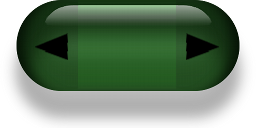
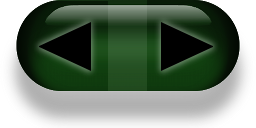
Added basic skinning to spinners
git-svn-id: svn+ssh://svn.code.sf.net/p/supertuxkart/code/main/branches/irrlicht@3375 178a84e3-b1eb-0310-8ba1-8eac791a3b58

diff --git a/src/gui/skin.cpp b/src/gui/skin.cpp
@@ -47,7 +47,8 @@ void Skin::draw2DRectangle (IGUIElement *element, const video::SColor &color, co
 
 void Skin::drawBoxFromStretchableTexture(const core::rect< s32 > &dest, ITexture* source,
                                          const int left_border, const int right_border,
-                                         const int top_border, const int bottom_border)
+                                         const int top_border, const int bottom_border,
+                                         const float border_out_portion)
 {
     // FIXME? - lots of things here will be re-calculated every frame, which is useless since
     // widgets won't move, so they'd only need to be calculated once.
@@ -91,8 +92,9 @@ void Skin::drawBoxFromStretchableTexture(const core::rect< s32 > &dest, ITexture
     core::rect<s32> source_area_bottom_right = core::rect<s32>(dx, dy, texture_w, texture_h);
     
     /*
-     The dest area is split this way. Borders will go a bit beyond the
-     given area so components inside don't go over the borders (by half their size)
+     The dest area is split this way. Borders can go a bit beyond the given area so
+     components inside don't go over the borders
+     (how much it exceeds horizontally is specified in 'border_out_portion'. vertically is always the totality)
      
      a----b--------------------c----+
      |    |                    |    |
@@ -111,22 +113,24 @@ void Skin::drawBoxFromStretchableTexture(const core::rect< s32 > &dest, ITexture
         const int dest_y2 = dest.LowerRightCorner.Y;
         
         const float scale = (float)(dest_y2-dest_y)/texture_h;
-        const int dest_left_border_half = left_border*scale*0.5f;
-        const int dest_right_border_half = right_border*scale*0.5f;
-        const int dest_top_border_half = top_border*scale*0.5f;
-        const int dest_bottom_border_half = bottom_border*scale*0.5f;
+        const int dest_left_border = left_border*scale;
+        const int dest_right_border = right_border*scale;
+        const int dest_top_border = top_border*scale;
+        const int dest_bottom_border = bottom_border*scale;
         
-        const int ax = dest_x - dest_left_border_half;
-        const int ay = dest_y - dest_top_border_half;
+        const float border_in_portion = 1 - border_out_portion;
         
-        const int bx = dest_x + dest_left_border_half;
+        const int ax = dest_x - dest_left_border*border_out_portion;
+        const int ay = dest_y - dest_top_border;
+        
+        const int bx = dest_x + dest_left_border*border_in_portion;
         const int by = ay;
         
-        const int cx = dest_x2 - dest_right_border_half;
+        const int cx = dest_x2 - dest_right_border*border_in_portion;
         const int cy = ay;
         
         const int dx = ax;
-        const int dy = dest_y + dest_top_border_half;
+        const int dy = dest_y;
         
         const int ex = bx;
         const int ey = dy;
@@ -134,11 +138,11 @@ void Skin::drawBoxFromStretchableTexture(const core::rect< s32 > &dest, ITexture
         const int fx = cx;
         const int fy = dy;
         
-        const int gx = dest_x2 + dest_right_border_half;
+        const int gx = dest_x2 + dest_right_border*border_out_portion;
         const int gy = dy;
         
         const int hx = ax;
-        const int hy = dest_y2 - dest_bottom_border_half;
+        const int hy = dest_y2;
         
         const int ix = bx;
         const int iy = hy;
@@ -150,7 +154,7 @@ void Skin::drawBoxFromStretchableTexture(const core::rect< s32 > &dest, ITexture
         const int ky = hy;
         
         const int lx = bx;
-        const int ly = dest_y2 + dest_bottom_border_half; 
+        const int ly = dest_y2 + dest_bottom_border; 
         
         const int mx = cx;
         const int my = ly;
@@ -268,20 +272,33 @@ void Skin::drawRibbonChild(const core::rect< s32 > &rect, const Widget* widget, 
 
 void Skin::drawSpinnerBody(const core::rect< s32 > &rect, const Widget* widget, const bool pressed, const bool focused)
 {
+    // FIXME - move these numbers to a config file
+    const int left_border = 110;
+    const int right_border = 110;
+    const int border_above = 0;
+    const int border_below = 36;
+    
+    drawBoxFromStretchableTexture(rect, (focused || pressed ? m_tex_fspinner : m_tex_spinner),
+                                  left_border, right_border,
+                                  border_above, border_below, 0);
+    /*
     if(focused)
         GUIEngine::getDriver()->draw2DRectangle( SColor(255, 255, 0, 0), rect );
     else
         GUIEngine::getDriver()->draw2DRectangle( SColor(255, 150, 0, 0), rect );
+     */
 }
 
 void Skin::drawSpinnerChild(const core::rect< s32 > &rect, const Widget* widget, const bool pressed, bool focused)
 {
+    /*
     if(pressed)
         GUIEngine::getDriver()->draw2DRectangle( SColor(255, 255, 0, 0), rect );
     else if(focused)
         GUIEngine::getDriver()->draw2DRectangle( SColor(255, 150, 0, 0), rect );
     else
         GUIEngine::getDriver()->draw2DRectangle( SColor(255, 0, 150, 0), rect );
+     */
 }
 
 void Skin::process3DPane(IGUIElement *element, const core::rect< s32 > &rect, const bool pressed)

diff --git a/src/gui/widget.cpp b/src/gui/widget.cpp
@@ -115,11 +115,6 @@ void Widget::readCoords(Widget* parent)
         int abs_y = -1, percent_y = -1;
         if(convertToCoord(y, &abs_y, &percent_y ))
         {
-            if(abs_y < -1)
-            {
-                std::cout << "abs_y = " << abs_y << ", y=" << (parent_y + (parent_h - abs_y)) << std::endl;
-            }
-            
             if(abs_y > -1) this->y = parent_y + abs_y;
             else if(abs_y < -1) this->y = parent_y + (parent_h + abs_y);
             else if(percent_y > -1) this->y = parent_y + parent_h*percent_y/100;
@@ -617,7 +612,7 @@ void SpinnerWidget::add()
     
     // left arrow
     rect<s32> subsize_left_arrow = rect<s32>(0 ,0, h, h);
-    IGUIButton * left_arrow = GUIEngine::getGUIEnv()->addButton(subsize_left_arrow, btn, ++id_counter_2, L"<<");
+    IGUIButton * left_arrow = GUIEngine::getGUIEnv()->addButton(subsize_left_arrow, btn, ++id_counter_2, L" ");
     m_children[0].m_element = left_arrow;
     m_children[0].m_type = WTYPE_BUTTON;
     left_arrow->setTabStop(false);
@@ -659,7 +654,7 @@ void SpinnerWidget::add()
     
     // right arrow
     rect<s32> subsize_right_arrow = rect<s32>(w-h, 0, w, h);
-    IGUIButton * right_arrow = GUIEngine::getGUIEnv()->addButton(subsize_right_arrow, btn, ++id_counter_2, L">>");
+    IGUIButton * right_arrow = GUIEngine::getGUIEnv()->addButton(subsize_right_arrow, btn, ++id_counter_2, L"  ");
     right_arrow->setTabStop(false);
     m_children[2].m_element = right_arrow;
     m_children[2].m_type = WTYPE_BUTTON;

diff --git a/src/gui/skin.hpp b/src/gui/skin.hpp
@@ -29,7 +29,8 @@ class Skin : public IGUISkin
     
     void drawBoxFromStretchableTexture(const core::rect< s32 > &dest, ITexture* source,
                                        const int left_border, const int right_border,
-                                       const int top_border, const int bottom_border);
+                                       const int top_border, const int bottom_border,
+                                       const float border_out_portion = 0.5);
     
 public:
     Skin(IGUISkin* fallback_skin);
